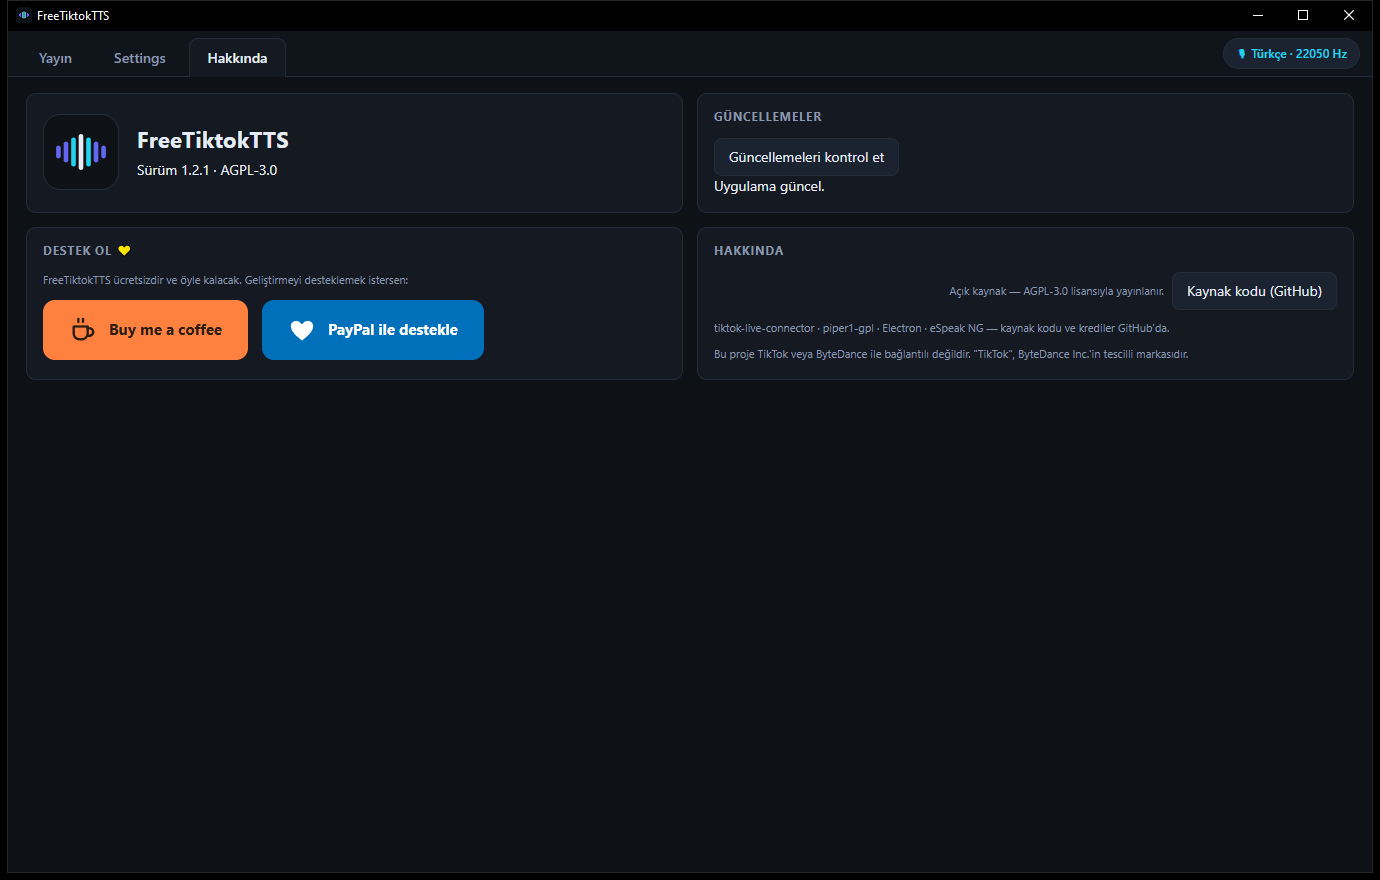
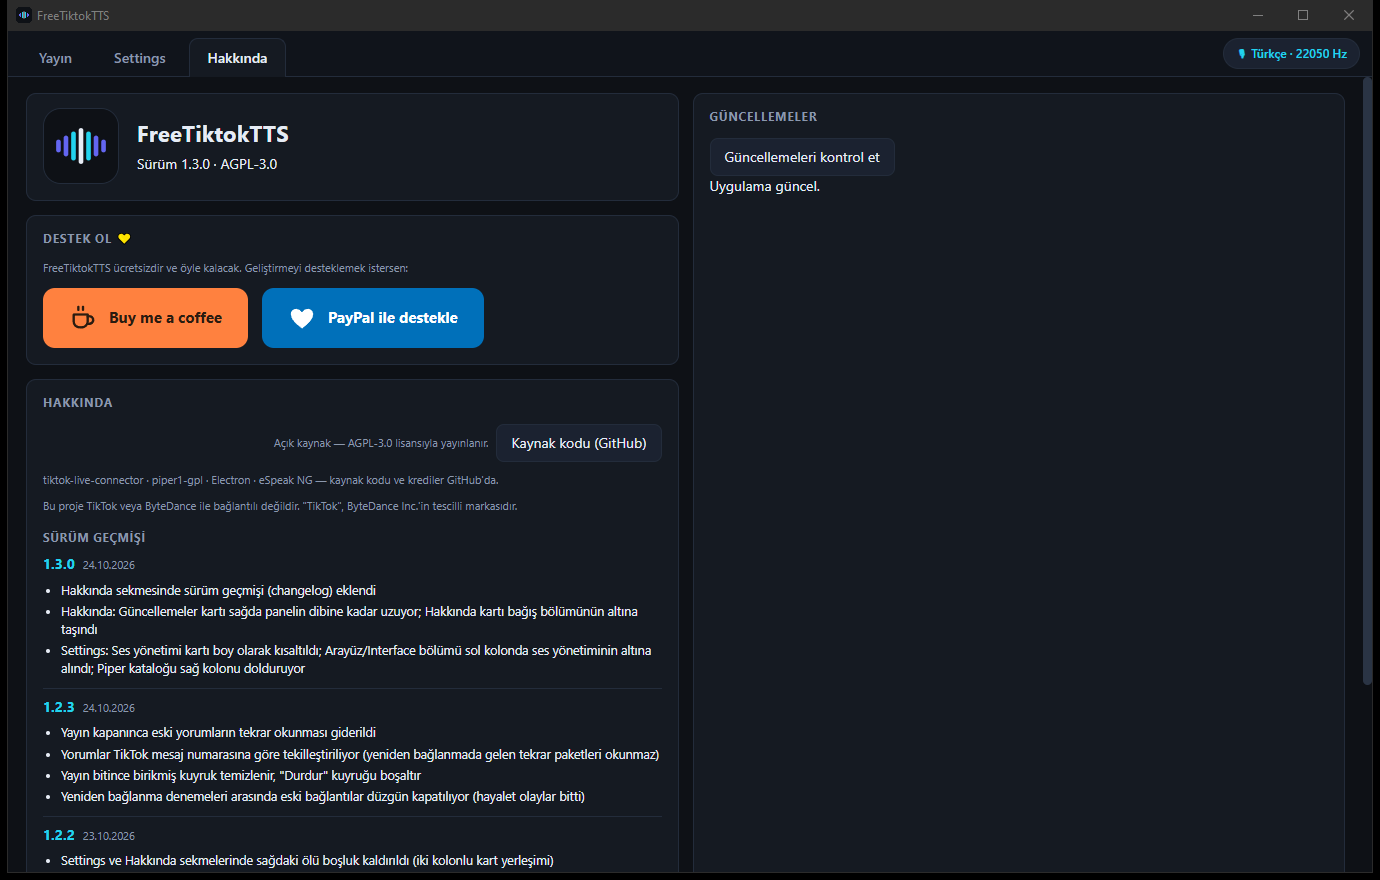
Hakkinda: surum gecmisi (changelog) + yeni yerlesim (Hakkinda bagisin altinda, Guncellemeler saga dibe); Settings: ses yonetimi kisa, arayuz alta, katalog saga + 1.3.0

diff --git a/src/renderer/index.html b/src/renderer/index.html
@@ -256,6 +256,7 @@
     <!-- ========================== SEKME 2: SETTINGS ========================== -->
     <section class="tab-panel" id="tab-settings">
       <div class="settings-wrap">
+        <div class="tab-col">
 
         <section class="card">
           <h3 data-i18n="settings.voiceManager">Ses yönetimi</h3>
@@ -291,6 +292,17 @@
         </section>
 
         <section class="card">
+          <h3 data-i18n="section.interface">Arayüz / Interface</h3>
+          <label class="field">
+            <span data-i18n="settings.language">Arayüz dili</span>
+            <select id="uiLanguage"></select>
+          </label>
+          <p class="note" data-i18n="settings.languageNote"></p>
+        </section>
+        </div>
+
+        <div class="tab-col">
+        <section class="card">
           <h3 data-i18n="settings.catalog">Piper kataloğu (Hugging Face)</h3>
           <div class="catalog-toolbar">
             <input id="voiceSearch" type="search" data-i18n-placeholder="settings.search" />
@@ -302,15 +314,7 @@
           <div id="catalogInfo" class="hint"></div>
           <div id="catalogList" class="catalog-list"></div>
         </section>
-
-        <section class="card">
-          <h3 data-i18n="section.interface">Arayüz / Interface</h3>
-          <label class="field">
-            <span data-i18n="settings.language">Arayüz dili</span>
-            <select id="uiLanguage"></select>
-          </label>
-          <p class="note" data-i18n="settings.languageNote"></p>
-        </section>
+        </div>
 
       </div>
     </section>
@@ -318,21 +322,13 @@
     <!-- ========================== SEKME 3: HAKKINDA ========================== -->
     <section class="tab-panel" id="tab-about">
       <div class="settings-wrap about-wrap">
+        <div class="tab-col">
         <section class="card about-hero">
           <svg class="about-logo" viewBox="0 0 256 256" aria-hidden="true"><rect width="256" height="256" rx="56" fill="#0e1116"/><rect x="42" y="106" width="16" height="44" rx="8" fill="#6366f1"/><rect x="68" y="92" width="16" height="72" rx="8" fill="#6366f1"/><rect x="94" y="78" width="16" height="100" rx="8" fill="#22d3ee"/><rect x="120" y="66" width="16" height="124" rx="8" fill="#e6ecf5"/><rect x="146" y="78" width="16" height="100" rx="8" fill="#22d3ee"/><rect x="172" y="92" width="16" height="72" rx="8" fill="#6366f1"/><rect x="198" y="106" width="16" height="44" rx="8" fill="#6366f1"/></svg>
           <div>
             <h2 class="about-name" data-i18n="app.title">FreeTiktokTTS</h2>
             <span id="aboutVersion" class="hint"></span>
           </div>
-        </section>
-
-        <section class="card">
-          <h3 data-i18n="about.updateTitle">Güncellemeler</h3>
-          <div class="row-actions-inline">
-            <button id="btnCheckUpdate" class="ghost" data-i18n="btn.checkUpdate"></button>
-            <button id="btnRestartUpdate" class="ghost hidden" data-i18n="btn.restartUpdate"></button>
-          </div>
-          <div id="updateStatus" class="hint"></div>
         </section>
 
         <section class="card">
@@ -358,7 +354,21 @@
           </div>
           <p class="note" data-i18n="about.credits"></p>
           <p class="note" data-i18n="about.disclaimer"></p>
+          <h4 class="changelog-title" data-i18n="about.changelogTitle">Sürüm geçmişi</h4>
+          <div id="changelogList" class="changelog"></div>
         </section>
+        </div>
+
+        <div class="tab-col">
+        <section class="card about-updates">
+          <h3 data-i18n="about.updateTitle">Güncellemeler</h3>
+          <div class="row-actions-inline">
+            <button id="btnCheckUpdate" class="ghost" data-i18n="btn.checkUpdate"></button>
+            <button id="btnRestartUpdate" class="ghost hidden" data-i18n="btn.restartUpdate"></button>
+          </div>
+          <div id="updateStatus" class="hint"></div>
+        </section>
+        </div>
       </div>
     </section>
   </main>

diff --git a/src/shared/changelog.js b/src/shared/changelog.js
@@ -1,0 +1,81 @@
+/**
+ * Surum gecmisi: Hakkinda sekmesinde gosterilir (en yeniden eskiye).
+ *
+ * Yeni surum cikarken bu listenin EN USTUNE bir girdi eklenir.
+ * test/changelog.test.js, en ust girdinin surumunu package.json surumuyle
+ * eslesmeye zorlar: surumu artirip changelog girdisi eklemeyi unutursan
+ * test patlar.
+ *
+ * Girdi bicimi:
+ *   { version: 'x.y.z', date: 'YYYY-MM-DD', tr: ['madde', ...], en: ['item', ...] }
+ */
+export const CHANGELOG = [
+  {
+    version: '1.3.0',
+    date: '2026-10-24',
+    tr: [
+      'Hakkında sekmesinde sürüm geçmişi (changelog) eklendi',
+      'Hakkında: Güncellemeler kartı sağda panelin dibine kadar uzuyor; Hakkında kartı bağış bölümünün altına taşındı',
+      'Settings: Ses yönetimi kartı boy olarak kısaltıldı; Arayüz/Interface bölümü sol kolonda ses yönetiminin altına alındı; Piper kataloğu sağ kolonu dolduruyor'
+    ],
+    en: [
+      'Added version history (changelog) in the About tab',
+      'About: Updates card now stretches to the bottom on the right; About card moved below the donation section',
+      'Settings: Voice manager card compacted; Interface section moved below it in the left column; Piper catalog fills the right column'
+    ]
+  },
+  {
+    version: '1.2.3',
+    date: '2026-10-24',
+    tr: [
+      'Yayın kapanınca eski yorumların tekrar okunması giderildi',
+      'Yorumlar TikTok mesaj numarasına göre tekilleştiriliyor (yeniden bağlanmada gelen tekrar paketleri okunmaz)',
+      'Yayın bitince birikmiş kuyruk temizlenir, "Durdur" kuyruğu boşaltır',
+      'Yeniden bağlanma denemeleri arasında eski bağlantılar düzgün kapatılıyor (hayalet olaylar bitti)'
+    ],
+    en: [
+      'Fixed old comments being re-read after the live stream ended',
+      'Comments are deduplicated by TikTok message ID (replayed packets on reconnect are ignored)',
+      'Pending queue is cleared when the stream ends; "Stop" also clears the queue',
+      'Old connections are properly closed between reconnect attempts (no more ghost events)'
+    ]
+  },
+  {
+    version: '1.2.2',
+    date: '2026-10-23',
+    tr: [
+      'Settings ve Hakkında sekmelerinde sağdaki ölü boşluk kaldırıldı (iki kolonlu kart yerleşimi)'
+    ],
+    en: [
+      'Removed the dead space on the right of the Settings and About tabs (two-column card grid)'
+    ]
+  },
+  {
+    version: '1.2.1',
+    date: '2026-10-19',
+    tr: [
+      'Hakkında, Settings sekmesinden ayrı kendi sekmesi oldu',
+      'Büyük bağış butonları: Buy me a coffee ve PayPal'
+    ],
+    en: [
+      'About became its own tab, separate from Settings',
+      'Large donation buttons: Buy me a coffee and PayPal'
+    ]
+  },
+  {
+    version: '1.2.0',
+    date: '2026-10-19',
+    tr: [
+      'Açık kaynak ilk sürüm (AGPL-3.0 lisansı)',
+      'Otomatik güncelleme: yeni sürümler uygulama içinden kurulur',
+      'Türkçe ve İngilizce README, Hakkında kartı'
+    ],
+    en: [
+      'First open-source release (AGPL-3.0 license)',
+      'Automatic updates: new versions install from within the app',
+      'Turkish and English README, About card'
+    ]
+  }
+];
+
+export default CHANGELOG;

diff --git a/src/renderer/app.js b/src/renderer/app.js
@@ -3,6 +3,7 @@
  */
 import { AudioEngine } from './audio-engine.js';
 import { createTranslator, resolveLanguage, LANGUAGES } from '../shared/i18n.js';
+import { CHANGELOG } from '../shared/changelog.js';
 
 const $ = (id) => document.getElementById(id);
 const audio = new AudioEngine();
@@ -982,6 +983,42 @@ function setUpdateStatus(info) {
   btn.classList.toggle('hidden', info?.state !== 'ready');
 }
 
+/* ------------------------------------------------------------------ */
+/* surum gecmisi (changelog)                                            */
+/* ------------------------------------------------------------------ */
+
+/** Hakkinda sekmesindeki surum gecmisini gecerli dile gore cizer. */
+function renderChangelog() {
+  const el = $('changelogList');
+  if (!el) return;
+  el.replaceChildren();
+  const lines = (entry) => (t.lang === 'en' ? entry.en : entry.tr) ?? [];
+  for (const entry of CHANGELOG) {
+    const item = document.createElement('div');
+    item.className = 'changelog-item';
+
+    const head = document.createElement('div');
+    head.className = 'changelog-head';
+    const ver = document.createElement('span');
+    ver.className = 'ver';
+    ver.textContent = entry.version;
+    const date = document.createElement('span');
+    date.className = 'date';
+    date.textContent = String(entry.date ?? '').split('-').reverse().join('.');
+    head.append(ver, date);
+
+    const list = document.createElement('ul');
+    for (const line of lines(entry)) {
+      const li = document.createElement('li');
+      li.textContent = line;
+      list.append(li);
+    }
+
+    item.append(head, list);
+    el.append(item);
+  }
+}
+
 /** Dil degistiginde tum ekrani (statik + dinamik) yeniden cevirir. */
 function relocalize() {
   applyTranslations();
@@ -995,6 +1032,7 @@ function relocalize() {
   }
   renderComments();
   renderQueue(state.snapshot ?? { queue: [] });
+  renderChangelog();
   if (state.appVersion) $('aboutVersion').textContent = t('about.versionLabel', { version: state.appVersion });
   if (state.sourceStatus) {
     $('statusText').textContent = statusText(state.sourceStatus);
@@ -1020,6 +1058,7 @@ async function boot() {
   fillSettings(state0.settings);
   renderComments();
   renderLanguageOptions();
+  renderChangelog();
   window.__tts = { audio, state, api, t: () => t };
 
   if (state0.source?.status) {

diff --git a/src/renderer/styles.css b/src/renderer/styles.css
@@ -357,18 +357,44 @@ input[type="range"]::-moz-range-thumb {
 .queue-item .txt { flex: 1; overflow: hidden; text-overflow: ellipsis; white-space: nowrap; }
 .queue-item button { padding: 2px 7px; font-size: 11px; }
 
-/* ---------- settings sekmesi ---------- */
+/* ---------- settings/hakkinda sekmeleri ---------- */
 .settings-wrap {
   overflow-y: auto;
   padding: 16px 18px 28px;
   display: grid;
-  grid-template-columns: repeat(auto-fit, minmax(460px, 1fr));
+  grid-template-columns: 1fr 1fr;
   align-content: start;
   gap: 14px;
 }
 
-/* Tek kalan kart bos hucre birakmasin: son kart tum satiri kaplar. */
-#tab-settings .settings-wrap > section:last-child { grid-column: 1 / -1; }
+/* Iki kolon: her kart kendi icerik yuksekliginde dizilir (satira gerilmez);
+   uzun kartlar (katalog, guncellemeler) kolonunu doldurur. */
+.tab-col {
+  display: flex;
+  flex-direction: column;
+  gap: 14px;
+  min-width: 0;
+}
+
+/* Hakkinda: guncellemeler karti panelin dibine kadar uzanir. */
+#tab-about .settings-wrap { grid-row: 1 / -1; align-content: stretch; }
+#tab-about .tab-col > .about-updates { flex: 1; }
+
+/* ---------- surum gecmisi (changelog) ---------- */
+.changelog-title {
+  margin: 14px 0 8px;
+  font-size: 12px;
+  text-transform: uppercase;
+  letter-spacing: .6px;
+  color: var(--muted);
+}
+.changelog-item { padding: 8px 0; border-top: 1px solid var(--border); }
+.changelog-item:first-child { border-top: 0; padding-top: 0; }
+.changelog-head { display: flex; align-items: baseline; gap: 8px; }
+.changelog-head .ver { font-weight: 700; color: var(--accent); font-variant-numeric: tabular-nums; }
+.changelog-head .date { font-size: 11px; color: var(--muted); }
+.changelog-item ul { margin: 6px 0 0; padding-left: 18px; }
+.changelog-item li { margin: 3px 0; font-size: 12.5px; line-height: 1.45; }
 .card {
   background: var(--bg-panel);
   border: 1px solid var(--border);

diff --git a/test/changelog.test.js b/test/changelog.test.js
@@ -1,0 +1,31 @@
+import { test } from 'node:test';
+import assert from 'node:assert/strict';
+import { readFileSync } from 'node:fs';
+import path from 'node:path';
+import { fileURLToPath } from 'node:url';
+import { CHANGELOG } from '../src/shared/changelog.js';
+
+const ROOT = path.resolve(path.dirname(fileURLToPath(import.meta.url)), '..');
+const pkg = JSON.parse(readFileSync(path.join(ROOT, 'package.json'), 'utf8'));
+
+test('changelog: en yeni girdi package.json surumuyle eslesir', () => {
+  assert.ok(CHANGELOG.length > 0, 'changelog bos olamaz');
+  assert.equal(
+    CHANGELOG[0].version,
+    pkg.version,
+    'surumu artirdiysan src/shared/changelog.js dosyasina da girdi eklemelisin'
+  );
+});
+
+test('changelog: her girdi gecerli surum/tarih ve dolu tr+en listeleri icerir', () => {
+  for (const entry of CHANGELOG) {
+    assert.match(entry.version, /^\d+\.\d+\.\d+$/, `surum bicimi bozuk: ${entry.version}`);
+    assert.match(String(entry.date), /^\d{4}-\d{2}-\d{2}$/, `tarih ISO olmali: ${entry.date}`);
+    assert.ok(Array.isArray(entry.tr) && entry.tr.length > 0, `${entry.version}: tr listesi bos`);
+    assert.ok(Array.isArray(entry.en) && entry.en.length > 0, `${entry.version}: en listesi bos`);
+    for (const line of [...entry.tr, ...entry.en]) {
+      assert.equal(typeof line, 'string', `${entry.version}: maddeler metin olmali`);
+      assert.ok(line.trim().length > 0, `${entry.version}: bos madde var`);
+    }
+  }
+});

diff --git a/src/shared/i18n.js b/src/shared/i18n.js
@@ -76,6 +76,7 @@ export const MESSAGES = {
     'log.historyCleared': 'Yorum geçmişi temizlendi',
     'log.engineNotReady': 'TTS motoru henüz hazır değil, kısa süre bekleyip tekrar deneyin',
     'about.title': 'Hakkında',
+    'about.changelogTitle': 'Sürüm geçmişi',
     'about.versionLabel': 'Sürüm {version} · AGPL-3.0',
     'about.source': 'Kaynak kodu (GitHub)',
     'about.updateTitle': 'Güncellemeler',
@@ -328,6 +329,7 @@ export const MESSAGES = {
     'log.historyCleared': 'Comment history cleared',
     'log.engineNotReady': 'TTS engine is not ready yet — wait a moment and try again',
     'about.title': 'About',
+    'about.changelogTitle': 'Version history',
     'about.versionLabel': 'Version {version} · AGPL-3.0',
     'about.source': 'Source code (GitHub)',
     'about.updateTitle': 'Updates',
